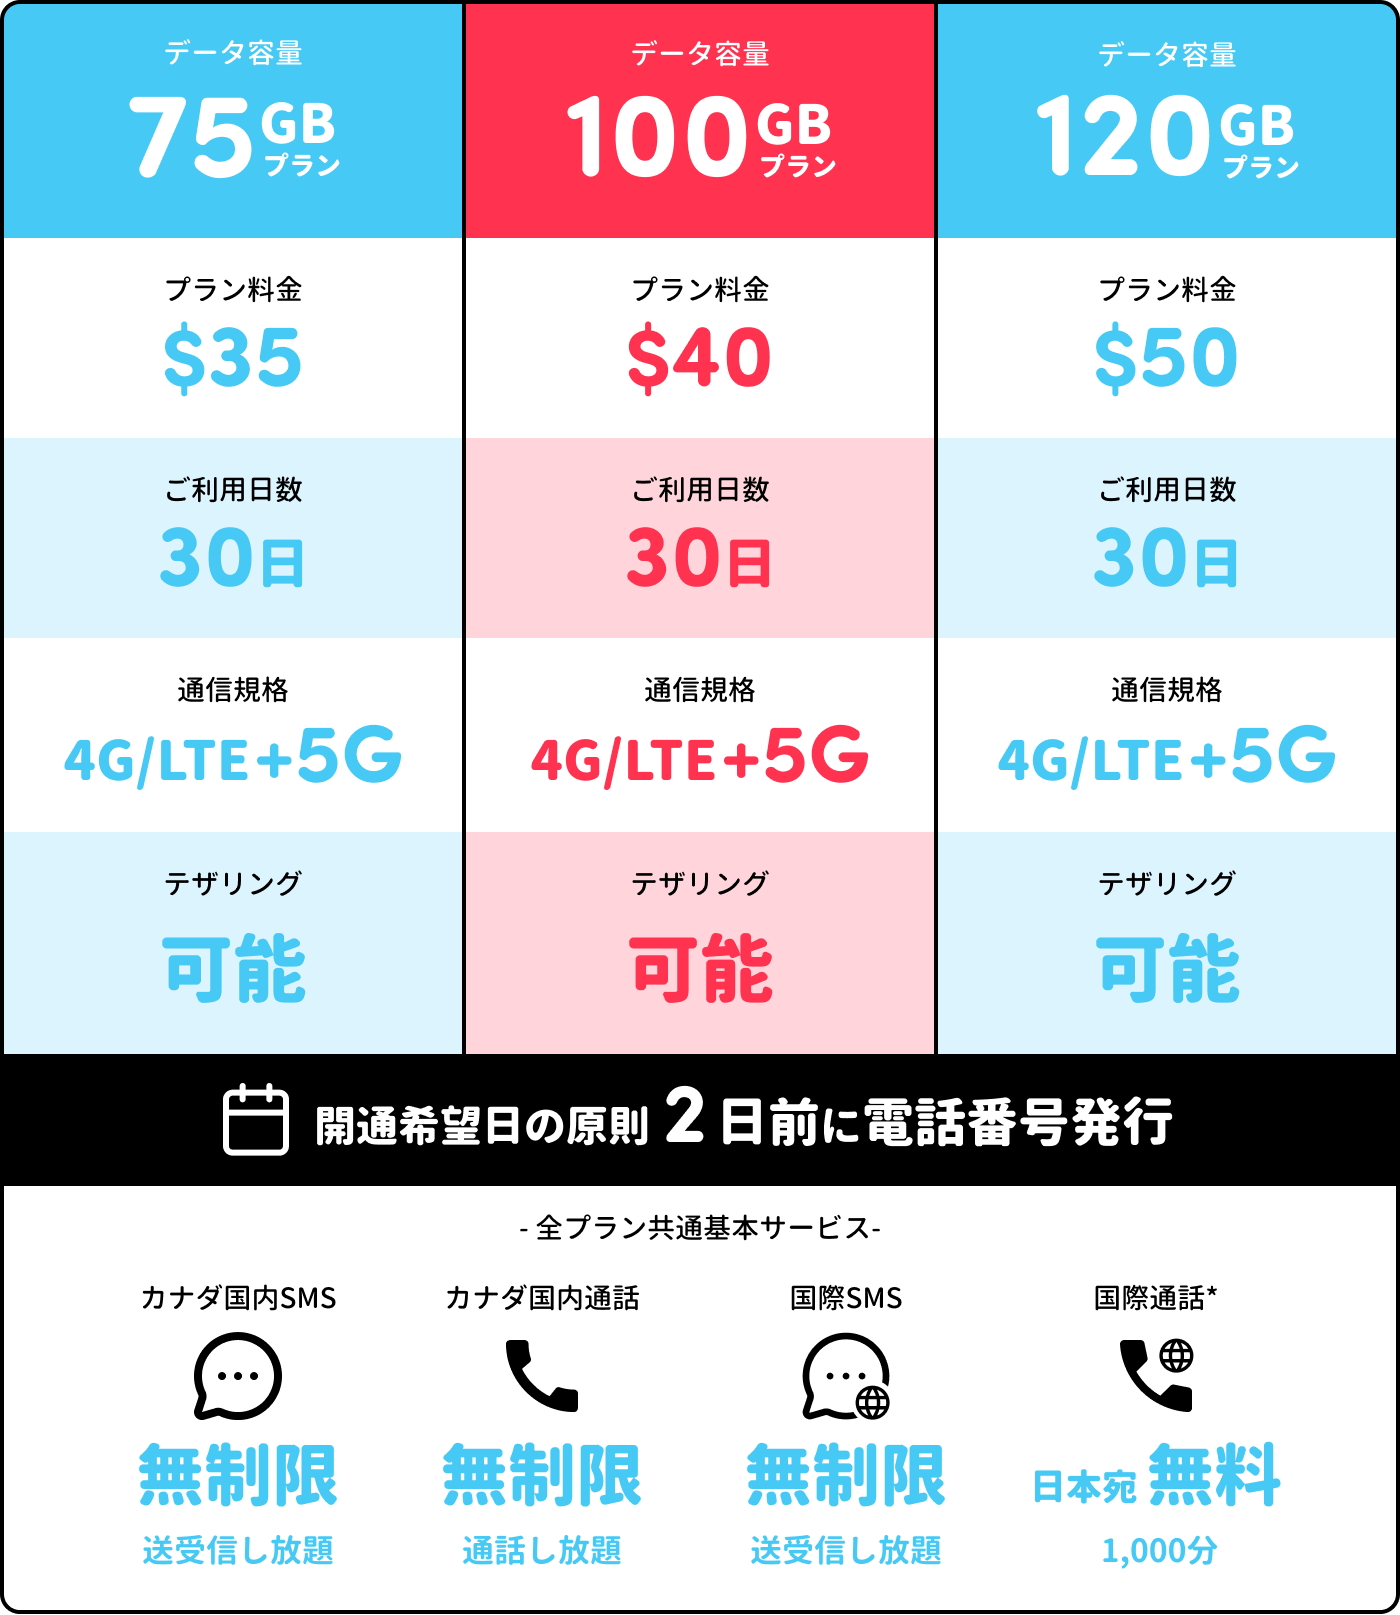
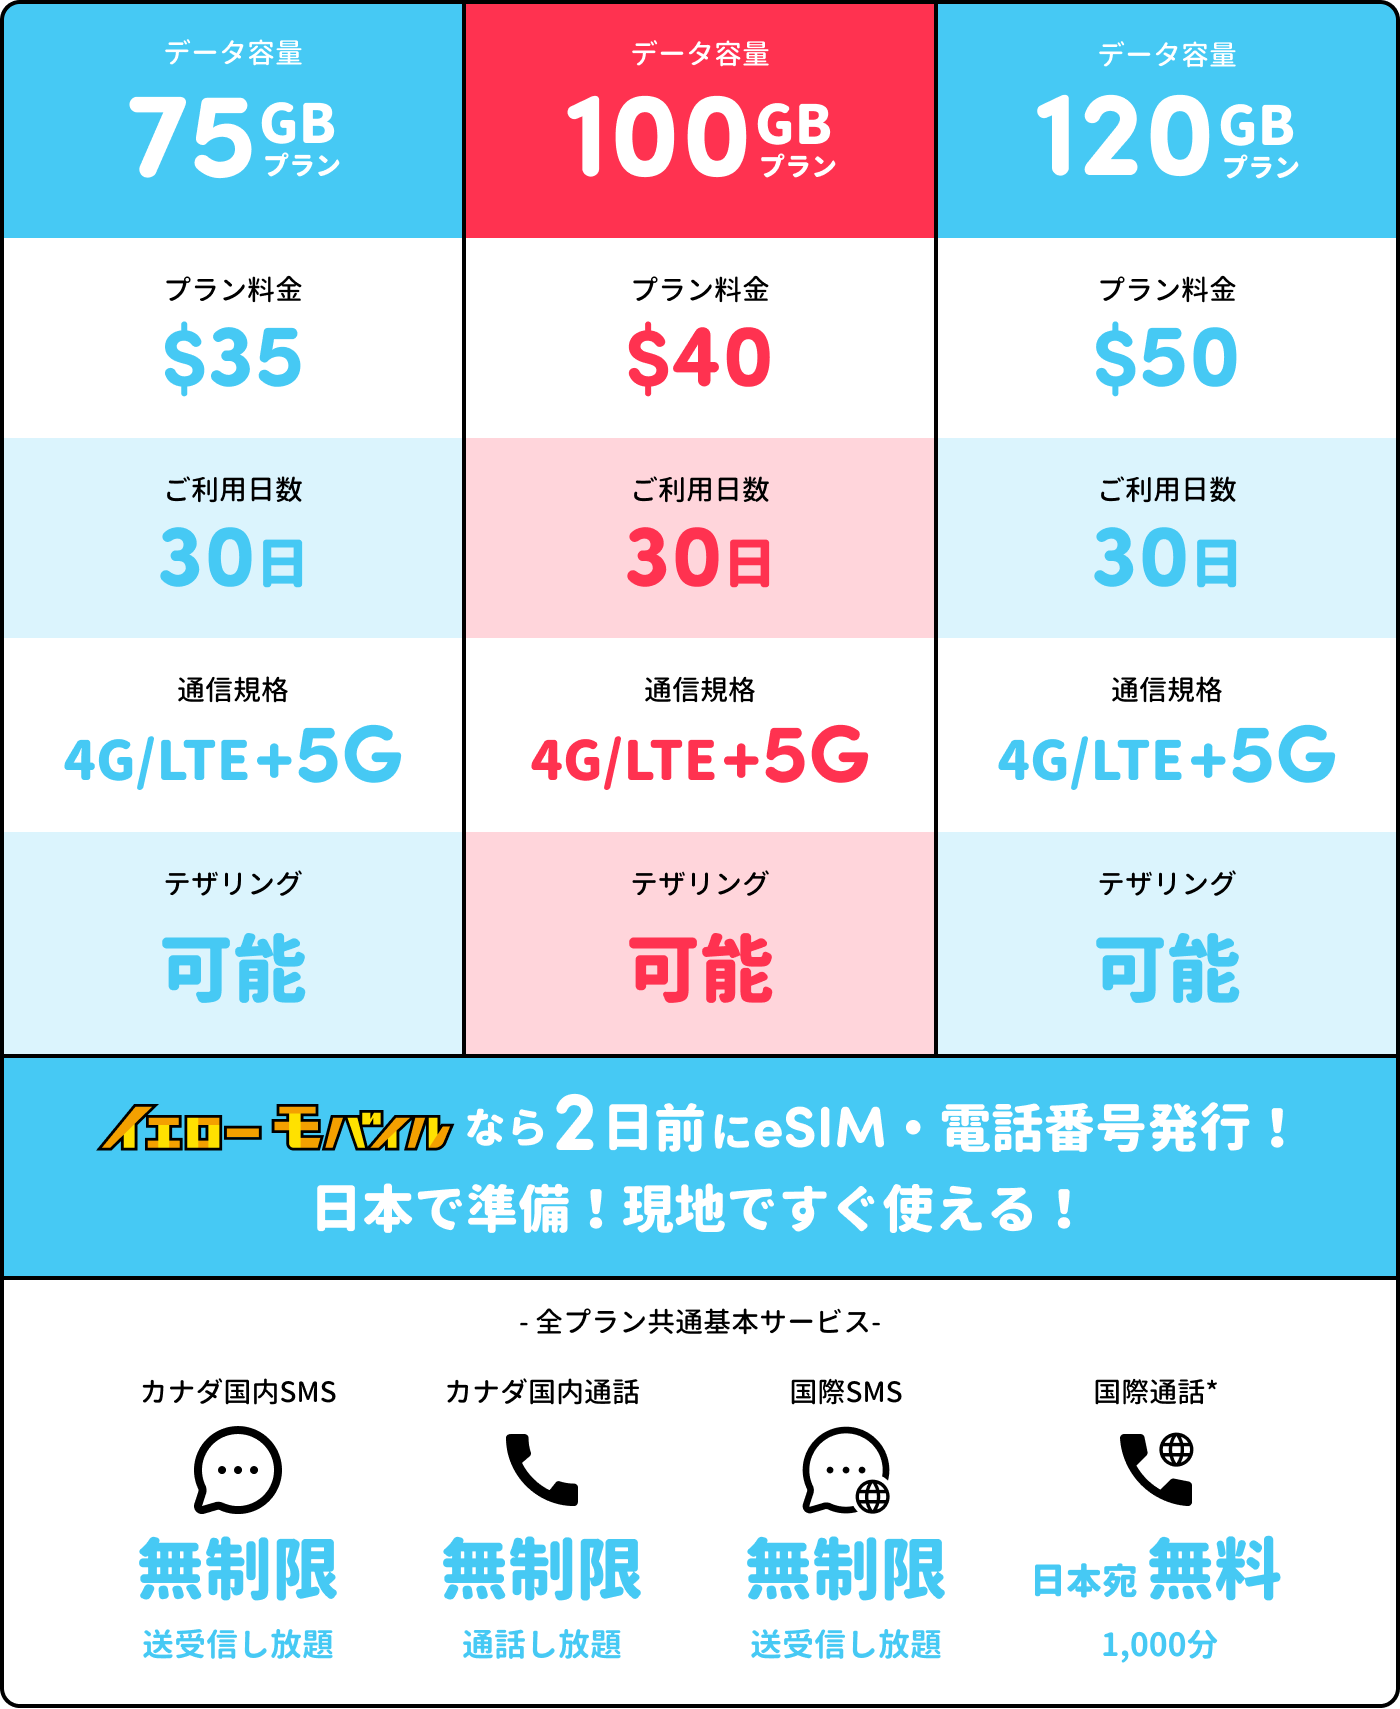
短期用プラン表変更

diff --git a/plan.html b/plan.html
@@ -622,8 +622,8 @@
         <div class="p-plan__panel" data-panel="set" hidden>
           <div class="p-plan__imgwrap">
             <p class="p-plan__seotex">PhoneBoxトラベル用SIMは、75GB・100GB・120GBの3プランをご用意しています。 すべてカナダ国内通話・SMS無制限、4G/LTE・5G対応、テザリングも利用可能です。 滞在期間やデータ利用量に合わせてお選びください。</p>
-            <img class="p-plan__pc" src="img/planpage/plan/plan-s.png" width="1400" height="1615" alt="PhoneBoxカナダSIM、75GB($35)・100GB($40)・120GB($50)の3プラン比較表。全プラン30日間・4G/LTE+5G対応・テザリング可能で、カナダ国内通話・SMS無制限、日本宛国際通話1,000分無料" loading="lazy">
-            <img class="p-plan__sp" src="img/planpage/plan/plan-s_sp.png"width="620" height="1577" alt="PhoneBoxカナダSIM、75GB($35)・100GB($40)・120GB($50)の3プラン比較表。全プラン30日間・4G/LTE+5G対応・テザリング可能で、カナダ国内通話・SMS無制限、日本宛国際通話1,000分無料" width="620" height="1577" loading="lazy">
+            <img class="p-plan__pc" src="img/planpage/plan/plan-s.png" width="1400" height="1709" alt="PhoneBoxカナダSIM、75GB($35)・100GB($40)・120GB($50)の3プラン比較表。全プラン30日間・4G/LTE+5G対応・テザリング可能で、カナダ国内通話・SMS無制限、日本宛国際通話1,000分無料" loading="lazy">
+            <img class="p-plan__sp" src="img/planpage/plan/plan-s_sp.png"width="620" height="1713" alt="PhoneBoxカナダSIM、75GB($35)・100GB($40)・120GB($50)の3プラン比較表。全プラン30日間・4G/LTE+5G対応・テザリング可能で、カナダ国内通話・SMS無制限、日本宛国際通話1,000分無料" width="620" height="1577" loading="lazy">
             <p>SIMの仕様や利用条件の詳細は「スペック詳細」をご確認ください。<a class="p-cycle__link" href="lineup30.html#lineup"><img src="img/planpage/plan/inlineicon.png" class="inline-icon" width="25" height="25" loading="lazy"></a></p>
             <div>
               <span class="p-plan__label travel">注意事項</span>
